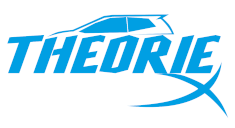
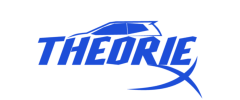
nav en main css

diff --git a/src/components/navbar.js b/src/components/navbar.js
@@ -12,16 +12,32 @@ function Navbar() {
  }
  return (
    <>
-     <nav className='h-20 items-center justify-between shadow-xl relative flex '>
-       <div className=' pl-16 text-xl text font-weight: 700'>
-         <Link to='/'>
-           <img height={64} width={112} src={Logo} alt='logo' />
+     <nav className='h-20 items-center  flex bg-white justify-between  shadow-md fixed w-full z-10 top-0 '>
+       <Link
+         className='cursor-pointer hidden md:block   ml-16 lg:ml-32 xl:ml-34 text-xl text-white font-semibold'
+         to='/'
+       >
+         <img
+           className=' '
+           src={Logo}
+           height={30}
+           width={150}
+           alt='navbar-logo'
+         />
+       </Link>
+         <Link
+           className='cursor-pointer md:hidden   ml-12 lg:ml-32 xl:ml-64 text-xl text-white font-semibold'
+           to='/'
+         >
+           <img src={Logo} height={40} width={130} alt='navbar-logo' />
          </Link>
-       </div>
-       <div className='px-12 cursor-pointer md:hidden' onClick={toggle}>
+       <div
+         className=' mr-16 md:mr-0  md:ml-36  cursor-pointer lg:hidden'
+         onClick={toggle}
+       >
          {isOpen ? (
            <svg
-             className='w-8 h-8 text'
+             className='w-8 h-8 text-blue-800'
              fill='none'
              stroke='currentColor'
              viewBox='0 0 24 24'
@@ -36,7 +52,7 @@ function Navbar() {
            </svg>
          ) : (
            <svg
-             className='w-8 h-8 text'
+             className='w-8 h-8 text-blue-800'
              fill='none'
              stroke='currentColor'
              viewBox='0 0 24 24'
@@ -51,18 +67,27 @@ function Navbar() {
            </svg>
          )}
        </div>
-       <div className=' pr-14 md:block hidden  '>
-         <Link className='p-5 text-xl text' to='/'>
+       <div className=' xl:px-28  2xl:pr-0 lg:block hidden m-2  '>
+         <Link to='/' className='p-5  text-lg font-semibold text-blue-800'>
            home
          </Link>
-         <Link className='p-5 text-xl text' to='/prijzen'>
-           prijzen
-         </Link>
-         <Link className='p-5 text-xl text' to='/theorieexamens'>
+         <Link to='/' className='p-5 text-lg  text-slate-800'>
            theorieexamens
          </Link>
-         <Link className='p-5 text-xl text' to='/contact'>
-           contact
+         <Link to='/' className='p-5 text-lg  text-slate-800'>
+           prijzen
+         </Link>
+         <Link to='/' className='p-5 text-lg  text-slate-800'>
+           inloggen
+         </Link>
+       </div>
+       <div className=' xl:pr-22  2xl:pr-44 pr-16 sm:block  hidden m-2  '>
+         <Link
+           to='/'
+           type='button'
+           className='py-3 px-4 inline-flex justify-center items-center gap-2 rounded-md bg-blue-700 border border-transparent font-semibold text-white hover:text-white hover:bg-blue-100 focus:outline-none focus:ring-2 ring-offset-white  text-sm dark:focus:ring-offset-gray-800'
+         >
+           GRATIS THEORIE-EXAMEN
          </Link>
        </div>
      </nav>

diff --git a/src/pages/home.js b/src/pages/home.js
@@ -1,26 +1,22 @@
 import React from 'react'
 import { Link } from 'react-router-dom'
 import Footer from '../components/footer'
+import { GrUnlock, GrUpdate } from 'react-icons/gr'
+import { MdOutlineQuiz, MdPhoneIphone } from 'react-icons/md'
 import Navbar from '../components/navbar'
 import Auto from '.././pictures/auto.png'
 function Home() {
 
-// for(let i = 0; i < 100; i++) {
-//     if(i % 3 === 1 && i % 5 === 0) {
-//       console.log(`${i} is divisible by 3`);
-//     }
 
-//   }
-//   console.log(1 % 3 );
   return (
     <>
       <Navbar />
-      <section className='bg-blue-100 lg:flex center justify-center py-24'>
-        <div className='mx-12 py-8 bg-blue-100 '>
-          <h1 className='text-4xl bg-blue-100 '>
+      <section className='bg-blue-100 lg:flex center justify-center py-44'>
+        <div className='mx-12 mr-24 py-8 bg-blue-100 '>
+          <h1 className='text-5xl w-96 bg-blue-100 '>
             Theorie examen oefenen en leren.
           </h1>
-          <p className='mt-4 w-80 text-slate-800 text-lg bg-blue-100  '>
+          <p className='mt-4  w-80 text-slate-800 text-xl bg-blue-100  '>
             Op deze website oefen en leer je voor het auto theorie-examen.
           </p>
           <Link
@@ -30,11 +26,37 @@ function Home() {
             start met een gratis-examen
           </Link>
         </div>
-        <div className='mx-4 bg-blue-100 '>
+        <div className='mx-4 ml-24 pt-16 bg-blue-100 '>
           <img className='w-80 h-60 bg-blue-100 ' src={Auto} alt='auto' />
         </div>
       </section>
-      <div className='h-44 '></div>
+      <div className='h-60  '>
+        <div className='flex center justify-center'>
+          <div className='mt-12 px-12 flex center justify-center'>
+            <GrUnlock className='text-4xl ' />
+            <h2 className='ml-4 w-64'>
+              Je krijgt automatisch direct toegang tot de oefen theorie-examens.
+            </h2>
+          </div>
+          <div className='flex mt-12 px-12 center justify-center'>
+            <GrUpdate className='text-4xl' />
+            <h2 className='ml-4 w-64'>Altijd up-to-date.</h2>
+          </div>
+        </div>
+        <div className='flex center justify-center'>
+          <div className='mt-12 px-12 flex center justify-center'>
+            <MdOutlineQuiz className='text-4xl ' />
+            <h2 className='ml-4 w-64'>Alleen realistische examenvragen.</h2>
+          </div>
+          <div className='flex mt-12 px-12 center justify-center'>
+            <MdPhoneIphone className='text-4xl' />
+            <h2 className='ml-4 w-64'>
+              met onze oefen theorie-examens kun je oefenen via elke browser met
+              elk apparaat.
+            </h2>
+          </div>
+        </div>
+      </div>
       <div className='h-44 bg-blue-100 '></div>
 
       <Footer />

diff --git a/src/components/dropdown.js b/src/components/dropdown.js
@@ -8,7 +8,7 @@ function Dropdown({ toggle, isOpen }) {
     <div
       className={
         isOpen
-          ? 'grid grid-rows-4  text-center items-center text-white bg-blue-900'
+          ? 'grid grid-rows-4 shadow-md fixed w-full z-10 top-20  text-center items-center font-semibold text-white bg-blue-800'
           : 'hidden'
       }
       onClick={toggle}
@@ -25,8 +25,6 @@ function Dropdown({ toggle, isOpen }) {
       <Link className='p-5 bggg hover:bg-blue-600' to='/contact'>
         contact
       </Link>
-     
-   
     </div>
   )
 }
